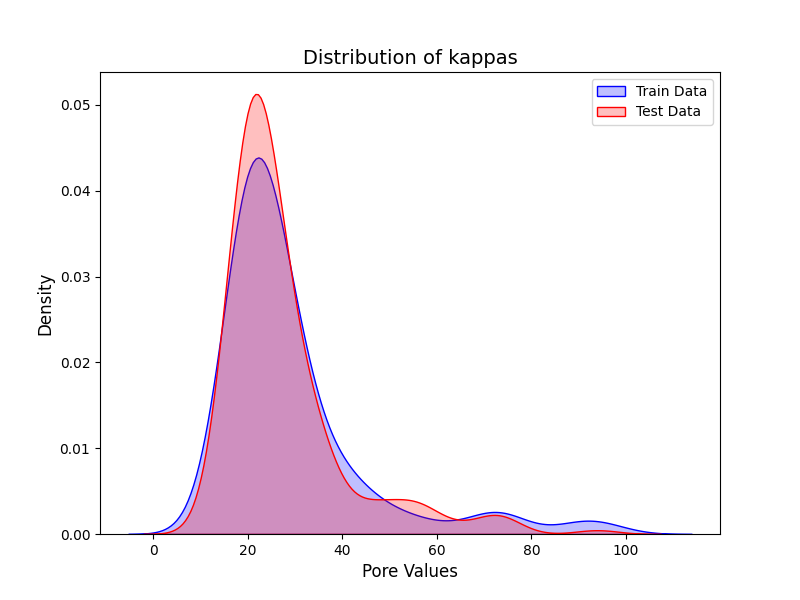
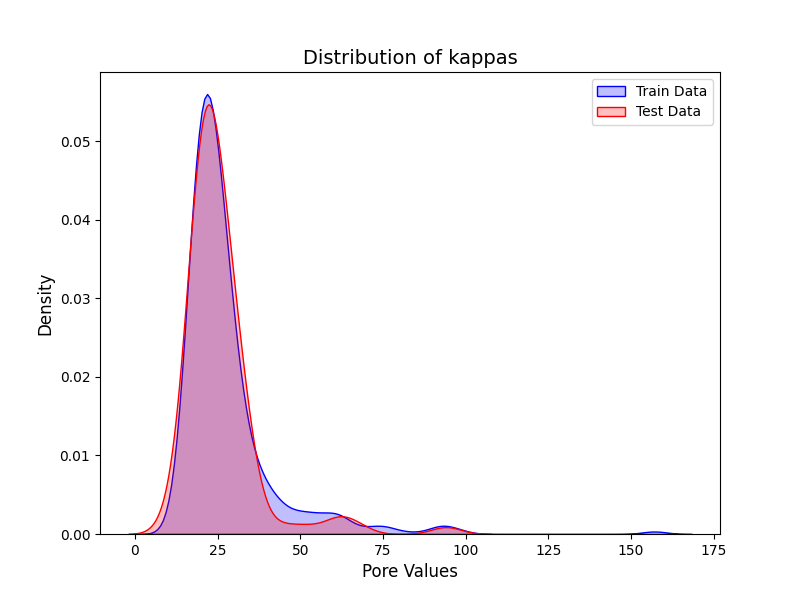
active-learning implemented + fixed bug

diff --git a/modules/training.py b/modules/training.py
@@ -19,7 +19,7 @@ from models.ensembles import ensemble
 
 def train_model(
     exp_name, model_name, 
-    dataset_train, dataset_test, 
+    dataset_al, dataset_train, dataset_test, 
     model,
     learn_rate_max, learn_rate_min, schedule, epochs,
     batch_size, checkpointer
@@ -81,6 +81,12 @@ def train_model(
     dataset_train_local, dataset_test_local = distribute_dataset(dataset_train, rank, size), distribute_dataset(dataset_test, rank, size)
 
     for epoch in range(epochs):
+
+        if dataset_al is not None and dataset_al.checkupdate(epoch) and rank==0:
+            dataset_train = dataset_al.sample(model_real)
+            dataset_train_local = distribute_dataset(dataset_train, rank, size)
+            sys.stdout.flush()
+
         epoch_time = time.time()
         grads, total_loss = None, 0.0
 
@@ -92,25 +98,24 @@ def train_model(
         optimizer.update(grads)
 
         # Aggregate training loss across models
-        avg_loss = comm.allreduce(total_loss, op=MPI.SUM) / n_models  # Ensure global mean
+        avg_loss = total_loss / dataset_train[0].shape[0]
 
-        avg_loss = avg_loss / dataset_train[0].shape[0]
-
-        print(dataset_train[0].shape[0])
-        
+        if isinstance(model_real, ensemble):
+            avg_loss = comm.allreduce(avg_loss, op=MPI.SUM) #/ n_models  # Ensure global mean
+    
         avg_val_loss, total_loss_perc = valid_step(dataset_test_local, batch_size, sub_comm, dataset_test[0].shape[0]) # this values are just for one model... sum between all 5 models (wait for them!)
 
         # Wait for all models and sum their validation losses
-        avg_val_loss = comm.allreduce(avg_val_loss, op=MPI.SUM) / n_models
-        total_loss_perc = comm.allreduce(total_loss_perc, op=MPI.SUM) / n_models
-
+        if isinstance(model_real, ensemble):
+            avg_val_loss = comm.allreduce(avg_val_loss, op=MPI.SUM) #/ n_models
+            total_loss_perc = comm.allreduce(total_loss_perc, op=MPI.SUM) #/ n_models
 
         
         epoch_times[epoch], epoch_losses[epoch], valid_losses[epoch], valid_perc_losses[epoch] = time.time() - epoch_time, avg_loss, avg_val_loss, total_loss_perc
 
         log_training_progress(model_real, rank, epoch, n_past_epoch, epochs, avg_loss, avg_val_loss, total_loss_perc, epoch_times)
 
-        if epoch % 25 == 0:
+        if epoch % 50 == 0:
             jax.clear_caches()
 
         if (epoch + 1) % 500 == 0 and rank == 0:
@@ -118,7 +123,7 @@ def train_model(
 
     if isinstance(model_real, ensemble):
         if rank == 0:
-            curves_params(exp_name, model_name, model, checkpointer, n_past_epoch, epoch, epoch_times, epoch_losses, valid_losses, valid_perc_losses, schedule, learn_rate_max, learn_rate_min)
+            curves_params(exp_name, model_name, model_real, checkpointer, n_past_epoch, epoch, epoch_times, epoch_losses, valid_losses, valid_perc_losses, schedule, learn_rate_max, learn_rate_min)
         return avg_loss.item(), avg_val_loss.item(), total_loss_perc.item()
 
           
@@ -127,6 +132,12 @@ def train_model(
         curves_params(exp_name, model_name, model, checkpointer, n_past_epoch, epoch, epoch_times, epoch_losses, valid_losses, valid_perc_losses, schedule, learn_rate_max, learn_rate_min)
         return avg_loss.item(), avg_val_loss.item(), total_loss_perc.item()
 
+
+
+
+# ERROR DEPENDS ON N of TRAINING THAT I USE... For ensemble each models is assigned 
+# some processors and the cumulative is divided by n_models. For the other we shoud just parallelize the for loop! 
+# Dividing by the number of processors also for non ensembles is a solve but underlying problem in parallelization?
 
 
 

diff --git a/uqmethods/al.py b/uqmethods/al.py
@@ -1,0 +1,66 @@
+import jax.numpy as jnp
+import jax.random as jrandom
+
+from models.model_utils import predict
+
+class DatasetAL:
+    def __init__(self, filename, M, N, K, T, seed):
+        full_data = jnp.load(f"data/highfidelity/{filename}", allow_pickle=True)
+        self.key = jrandom.PRNGKey(seed)  # JAX key initialization
+
+        # Load data
+        self.pores = jnp.asarray(full_data['pores'], dtype=jnp.float32)
+        self.kappas = jnp.asarray(full_data['kappas'], dtype=jnp.float32)
+
+        self.M = M  # Number of new samples per iteration
+        self.N = N  # Number of initial and test samples
+        self.K= K
+        self.T = T
+
+        self.dataset_indices = None  # Training set indices
+        self.test_indices = None  # Test set indices
+
+    def initialize(self):
+        """Initialize the dataset with N training and N test pairs."""
+        self.key, subkey = jrandom.split(self.key)
+
+        all_indices = jnp.arange(self.pores.shape[0])
+        selected_indices = jrandom.choice(subkey, all_indices, (2 * self.N,), replace=False)
+
+        # Split into test and initial training set
+        self.test_indices = selected_indices[:self.N]
+        self.dataset_indices = selected_indices[self.N:]
+        print(f"AL: Dataset initialized with {len(self.dataset_indices)} points")
+
+        return [self.pores[self.dataset_indices], self.kappas[self.dataset_indices]]
+        
+    def checkupdate(self, epoch):
+        return (epoch+1)% self.T == 0
+
+
+    def propose(self, model):
+        """Propose M new pores based on uncertainty."""
+        remaining_indices = jnp.setdiff1d(jnp.arange(self.pores.shape[0]), jnp.concatenate([self.dataset_indices, self.test_indices]))
+        proposed_pores = self.pores[remaining_indices]
+
+        print(type(model))
+
+        kappa_mean, kappa_var = predict(model, proposed_pores, training=False)
+
+        # Select M/3 points with highest uncertainty
+        top_indices = jnp.argsort(-kappa_var)[: self.K]
+
+        return remaining_indices[top_indices]
+
+    def sample(self, model, iteration=0):
+        """Expand the dataset with proposed points."""
+        new_indices = self.propose(model)
+        self.dataset_indices = jnp.concatenate([self.dataset_indices, new_indices])
+
+        print(f"AL: Dataset has now {len(self.dataset_indices)} points")
+
+        return [self.pores[self.dataset_indices], self.kappas[self.dataset_indices]]
+
+    def get_test_set(self):
+        """Return the reserved test set."""
+        return [self.pores[self.test_indices], self.kappas[self.test_indices]]

diff --git a/full_pipeline.py b/full_pipeline.py
@@ -9,6 +9,7 @@ from modules.training import train_model
 from utils import create_folders
 from optimization.run_optimization import optimize
 from modules.validation import final_validation
+from uqmethods.al import DatasetAL
 
 os.environ["XLA_FLAGS"] = "--xla_force_host_platform_device_count=8"
 
@@ -42,15 +43,24 @@ model = select_model(
 model, checkpointer = initialize_or_restore_params(model, model_config["model_name"], base_dir= "experiments/" + exp_config['exp_name'] + "/weights", rank=rank) # check or do it deeper
 
 # Ingest data
-dataset_train, dataset_test, dataset_valid_small, kappas_design_valid = data_ingestion(
-    rank=rank,
-    exp_name=exp_config['exp_name'],
-    filename=exp_config["filename_data"], 
-    train_size=exp_config["train_size"], 
-    test_size=exp_config['test_size'],
-    stratified=exp_config['stratified'],
-    key=rngs
-)
+if exp_config['al']:
+
+    dataset_al = DatasetAL(exp_config['filename_data'], exp_config['M'], exp_config['N'], exp_config['K'], exp_config['T'], exp_config['seed'])
+    dataset_train = dataset_al.initialize()
+    dataset_test = dataset_al.get_test_set()
+
+else:
+    dataset_train, dataset_test, dataset_valid_small, kappas_design_valid = data_ingestion(
+        rank=rank,
+        exp_name=exp_config['exp_name'],
+        filename=exp_config["filename_data"], 
+        train_size=exp_config["train_size"], 
+        test_size=exp_config['test_size'],
+        stratified=exp_config['stratified'],
+        key=rngs
+    )
+
+    dataset_al = None
 
 if exp_config['training']:
     if rank == 0:
@@ -58,6 +68,7 @@ if exp_config['training']:
     mse_train, mse_test, perc_error_test = train_model(
         exp_name=exp_config['exp_name'], 
         model_name=model_config["model_name"],
+        dataset_al= dataset_al,
         dataset_train=dataset_train,
         dataset_test=dataset_test,
         model=model,
@@ -69,13 +80,13 @@ if exp_config['training']:
         checkpointer=checkpointer
         )
 
-if exp_config['valid'] and rank == 0:
+if exp_config['valid'] and rank == 0 and not exp_config['al']:
     print("Validation...")
     final_validation(exp_config["exp_name"], model, model_config['model_name'], dataset_valid_small, mse_train, mse_test, perc_error_test)
 
 if rank == 0 and exp_config['optimization']:
     
-    if exp_config['kappas'] is None:
+    if exp_config['kappas'] is None and not exp_config['al']:
         exp_config['kappas'] = kappas_design_valid.tolist()
     
     kappas_valid = exp_config['kappas']

diff --git a/models/model_utils.py b/models/model_utils.py
@@ -50,6 +50,7 @@ def predict(model, pores, training=False, **kwargs):
     kappa_var = None
 
     if isinstance(model, mlp):
+       
         pores_reshaped = jnp.reshape(pores, (pores.shape[0], 25))
         kappa_mean = jnp.squeeze(model(pores_reshaped, True), -1)
     
@@ -60,6 +61,7 @@ def predict(model, pores, training=False, **kwargs):
                 plot_peds(model, pores, conductivity_res = conductivity_generated, model_name=kwargs.get('model_name'), exp_name=kwargs.get('exp_name'), epoch=kwargs.get('epoch') + 1 + kwargs.get('n_past_epoch'), kappa_predicted=kappa_mean, kappa_target=kwargs.get('kappas'))
     
     if isinstance(model, ensemble):
+        
         kappa_mean, kappa_var = model(pores, training)
 
     return kappa_mean, kappa_var

diff --git a/modules/training_utils.py b/modules/training_utils.py
@@ -305,7 +305,7 @@ def plot_update_learning_curves(exp_name, model_name, n_past_epoch, epoch, epoch
 
 
 def log_training_progress(model, rank, epoch, n_past_epoch, epochs, avg_loss, avg_val_loss, total_loss_perc, epoch_times):
-    if (epoch + 1) % 1 == 0:  # Always true, but keeps the structure flexible
+    if (epoch + 1) % 25 == 0:  # Always true, but keeps the structure flexible
         epoch_str = f"Epoch {epoch + 1 + n_past_epoch}/{epochs + n_past_epoch}, Training Loss: {avg_loss:.2f}, Validation Loss: {avg_val_loss:.2f}, {total_loss_perc:.2f}%, Time: {epoch_times[epoch]:.2f}s"
         
         if not isinstance(model, ensemble) and rank == 0:

diff --git a/config_experiment.py b/config_experiment.py
@@ -7,14 +7,22 @@ e1 = {
     "valid": True, # change the validation to try different validations
     "optimization": True,
 
+
     # Data
     "filename_data": "high_fidelity_2_20000.npz", # do we need this?
-    "train_size": 200, # change to train, test, validation
-    "test_size": 200,
+    "train_size": 1000, # change to train, test, validation
+    "test_size": 100,
     "stratified": "all",
 
+    # Active Learning
+    "al": False,
+    "N": 300,
+    "M": 800,
+    "K": 100,
+    "T": 50,
+     
     # Training
-    "epochs": 200,
+    "epochs": 1000,
     "batch_size": 200,
     "learn_rate_max": 5e-3,
     "learn_rate_min": 5e-4,

diff --git a/config_model.py b/config_model.py
@@ -1,6 +1,6 @@
 m1 = {
-    "model_name": "ensemble_check",
-    "model": "MLP",
+    "model_name": "peds",
+    "model": "PEDS",
     "resolution": 5,
     "learn_residual": False,
     "hidden_sizes": [32, 32],
